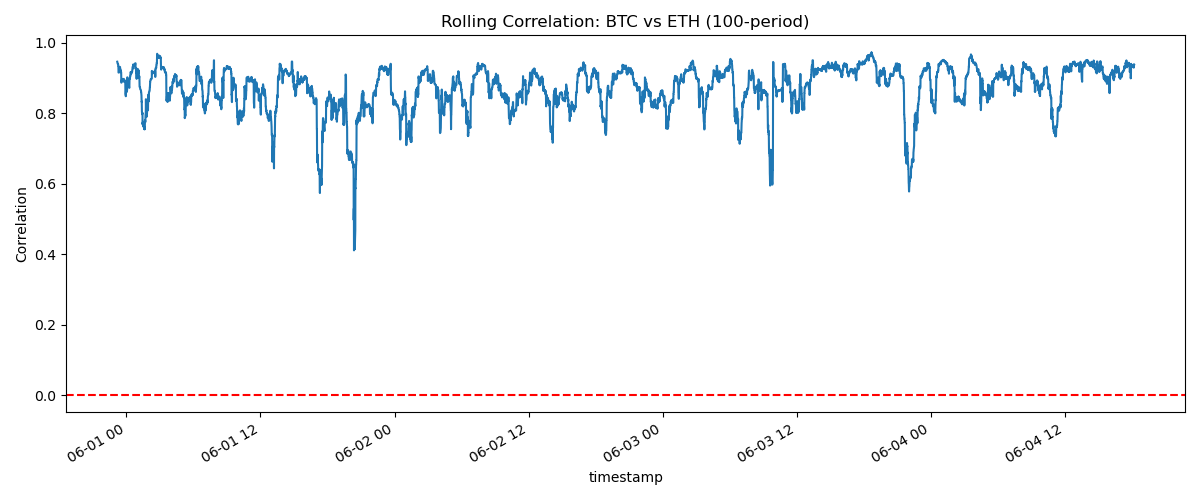
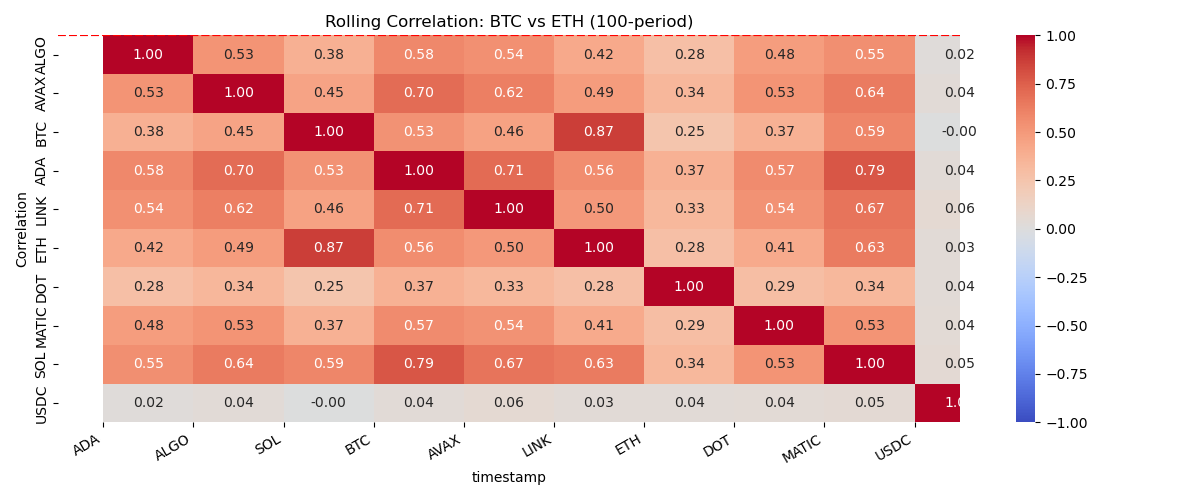
feat: add main.py to run all models in single command

diff --git a/models/sharpe.py b/models/sharpe.py
@@ -3,39 +3,32 @@ import pandas as pd
 import numpy as np
 import matplotlib.pyplot as plt
 
-df = load_prices()
-
-cutoff = pd.Timestamp('2026-05-31 22:21:00', tz='UTC')
-clean = df[df['timestamp'] > cutoff]
-
-pivot = clean.pivot_table(
-    index='timestamp',
-    columns='coin_id',
-    values='price_usd'
-)
-
-log_returns = np.log(pivot / pivot.shift(1))
-
-sharpe = log_returns.mean() / log_returns.std()
-
-ticker_map = {
-    'bitcoin': 'BTC', 'ethereum': 'ETH', 'solana': 'SOL',
-    'cardano': 'ADA', 'avalanche-2': 'AVAX', 'chainlink': 'LINK',
-    'polkadot': 'DOT', 'algorand': 'ALGO',
-    'polygon-ecosystem-token': 'MATIC', 'usd-coin': 'USDC',
-}
-sharpe.index = sharpe.index.map(ticker_map)
-
-sharpe.sort_values().plot(
-    kind='bar',
-    title='Sharpe Ratio by Coin',
-    figsize=(10, 5),
-    color='steelblue'
-)
-
-plt.axhline(y=0, color='red', linestyle='--')
-plt.xlabel('')
-plt.ylabel('Sharpe Ratio')
-plt.tight_layout()
-plt.savefig('sharpe_ratio.png')
-print("Chart saved.")
+def run(df):
+    cutoff = pd.Timestamp('2026-05-31 22:21:00', tz='UTC')
+    clean = df[df['timestamp'] > cutoff]
+    pivot = clean.pivot_table(
+        index='timestamp',
+        columns='coin_id',
+        values='price_usd'
+    )
+    log_returns = np.log(pivot / pivot.shift(1))
+    sharpe = log_returns.mean() / log_returns.std()
+    ticker_map = {
+        'bitcoin': 'BTC', 'ethereum': 'ETH', 'solana': 'SOL',
+        'cardano': 'ADA', 'avalanche-2': 'AVAX', 'chainlink': 'LINK',
+        'polkadot': 'DOT', 'algorand': 'ALGO',
+        'polygon-ecosystem-token': 'MATIC', 'usd-coin': 'USDC',
+    }
+    sharpe.index = sharpe.index.map(ticker_map)
+    sharpe.sort_values().plot(
+        kind='bar',
+        title='Sharpe Ratio by Coin',
+        figsize=(10, 5),
+        color='steelblue'
+    )
+    plt.axhline(y=0, color='red', linestyle='--')
+    plt.xlabel('')
+    plt.ylabel('Sharpe Ratio')
+    plt.tight_layout()
+    plt.savefig('sharpe_ratio.png')
+    return sharpe

diff --git a/models/volatility.py b/models/volatility.py
@@ -3,37 +3,19 @@ import pandas as pd
 import numpy as np
 import matplotlib.pyplot as plt
 
-df = load_prices()
-pivot = df.pivot_table(
-    index='timestamp', 
-    columns='coin_id', 
-    values='price_usd'
-)
-# today/yesterday, then log
-log_returns = np.log(pivot / pivot.shift(1))
-#std over 20 periods
-rolling_vol = log_returns.rolling(window=20).std()
-# plot bitcoin only, drop NaN rows
-rolling_vol['bitcoin'].dropna().plot(
-    title='Bitcoin Rolling Volatility (20-period)',
-    figsize=(12, 5)
-)
-plt.ylabel('Volatility (std of log returns)')
-plt.tight_layout()
-plt.savefig('bitcoin_volatility.png')
-print("Chart saved.")
-
-# filter only bitcoin rows
-btc = df[df['coin_id'] == 'bitcoin'].copy()
-
-# sort by time
-btc = btc.sort_values('timestamp')
-
-# time between each snapshot
-btc['time_diff'] = btc['timestamp'].diff()
-
-#summary statistics
-print(btc['time_diff'].describe())
-
-# shows gaps > 1 hour
-print(btc[btc['time_diff'] > pd.Timedelta(minutes=2)][['timestamp', 'time_diff']])
+def run(df):
+    pivot = df.pivot_table(
+        index='timestamp',
+        columns='coin_id',
+        values='price_usd'
+    )
+    log_returns = np.log(pivot / pivot.shift(1))
+    rolling_vol = log_returns.rolling(window=20).std()
+    rolling_vol['bitcoin'].dropna().plot(
+        title='Bitcoin Rolling Volatility (20-period)',
+        figsize=(12, 5)
+    )
+    plt.ylabel('Volatility (std of log returns)')
+    plt.tight_layout()
+    plt.savefig('bitcoin_volatility.png')
+    return rolling_vol

diff --git a/models/correlation.py b/models/correlation.py
@@ -4,28 +4,24 @@ import numpy as np
 import matplotlib.pyplot as plt
 import seaborn as sns
 
-df = load_prices()
-cutoff = pd.Timestamp('2026-05-31 22:21:00', tz='UTC')
-clean = df[df['timestamp'] > cutoff]
-
-pivot = clean.pivot_table(
-    index='timestamp',
-    columns='coin_id',
-    values='price_usd'
-)
-pivot.columns.name = None
-
-log_returns = np.log(pivot / pivot.shift(1))
-corr_matrix = log_returns.corr()
-
-corr_matrix.columns = ['ALGO', 'AVAX', 'BTC', 'ADA', 'LINK', 'ETH', 'DOT', 'MATIC', 'SOL', 'USDC']
-corr_matrix.index = ['ALGO', 'AVAX', 'BTC', 'ADA', 'LINK', 'ETH', 'DOT', 'MATIC', 'SOL', 'USDC']
-
-plt.figure(figsize=(10, 8))
-sns.heatmap(corr_matrix, annot=True, fmt='.2f', cmap='coolwarm', vmin=-1, vmax=1)
-plt.title('Crypto Correlation Matrix')
-plt.tight_layout()
-plt.savefig('correlation_matrix.png')
-
-print(corr_matrix)
-print('Chart saved.')
+def run(df):
+    cutoff = pd.Timestamp('2026-05-31 22:21:00', tz='UTC')
+    clean = df[df['timestamp'] > cutoff]
+    pivot = clean.pivot_table(
+        index='timestamp',
+        columns='coin_id',
+        values='price_usd'
+    )
+    pivot.columns.name = None
+    log_returns = np.log(pivot / pivot.shift(1))
+    corr_matrix = log_returns.corr()
+    corr_matrix.columns = ['ALGO', 'AVAX', 'BTC', 'ADA', 'LINK', 'ETH', 'DOT', 'MATIC', 'SOL', 'USDC']
+    corr_matrix.index = ['ALGO', 'AVAX', 'BTC', 'ADA', 'LINK', 'ETH', 'DOT', 'MATIC', 'SOL', 'USDC']
+    plt.figure(figsize=(10, 8))
+    sns.heatmap(corr_matrix, annot=True, fmt='.2f', cmap='coolwarm', vmin=-1, vmax=1)
+    plt.title('Crypto Correlation Matrix')
+    plt.tight_layout()
+    plt.savefig('correlation_matrix.png')
+    print(corr_matrix)
+    print('Chart saved.')
+    return corr_matrix

diff --git a/models/rolling_correlation.py b/models/rolling_correlation.py
@@ -3,27 +3,22 @@ import pandas as pd
 import numpy as np
 import matplotlib.pyplot as plt
 
-df = load_prices()
-
-cutoff = pd.Timestamp('2026-05-31 22:21:00', tz='UTC')
-clean = df[df['timestamp'] > cutoff]
-pivot = clean.pivot_table(
-    index='timestamp',
-    columns='coin_id',
-    values='price_usd'
-)
-
-log_returns = np.log(pivot / pivot.shift(1))
-
-rolling_corr = log_returns['bitcoin'].rolling(window=100).corr(log_returns['ethereum'])
-
-rolling_corr.dropna().plot(
-    title='Rolling Correlation: BTC vs ETH (100-period)',
-    figsize=(12, 5)
-)
-
-plt.axhline(y=0, color='red', linestyle='--')
-plt.ylabel('Correlation')
-plt.tight_layout()
-plt.savefig('rolling_correlation.png')
-print("Chart saved.")
+def run(df):
+    cutoff = pd.Timestamp('2026-05-31 22:21:00', tz='UTC')
+    clean = df[df['timestamp'] > cutoff]
+    pivot = clean.pivot_table(
+        index='timestamp',
+        columns='coin_id',
+        values='price_usd'
+    )
+    log_returns = np.log(pivot / pivot.shift(1))
+    rolling_corr = log_returns['bitcoin'].rolling(window=100).corr(log_returns['ethereum'])
+    rolling_corr.dropna().plot(
+        title='Rolling Correlation: BTC vs ETH (100-period)',
+        figsize=(12, 5)
+    )
+    plt.axhline(y=0, color='red', linestyle='--')
+    plt.ylabel('Correlation')
+    plt.tight_layout()
+    plt.savefig('rolling_correlation.png')
+    return rolling_corr

diff --git a/models/var.py b/models/var.py
@@ -4,19 +4,15 @@ import numpy as np
 import matplotlib.pyplot as plt
 import math
 
-df = load_prices()
 
-cutoff = pd.Timestamp('2026-05-31 22:21:00', tz='UTC')
-clean = df[df['timestamp'] > cutoff]
-
-pivot = clean.pivot_table(
-    index='timestamp',
-    columns='coin_id',
-    values='price_usd'
-)
-log_returns = np.log(pivot / pivot.shift(1))
-
-var_95 = log_returns.quantile(0.05)*math.sqrt(2880)
-var_95_daily = var_95 * math.sqrt(2880)
-
-print(var_95.sort_values())
+def run(df):
+    cutoff = pd.Timestamp('2026-05-31 22:21:00', tz='UTC')
+    clean = df[df['timestamp'] > cutoff]
+    pivot = clean.pivot_table(
+        index='timestamp',
+        columns='coin_id',
+        values='price_usd'
+    )
+    log_returns = np.log(pivot / pivot.shift(1))
+    var_95 = log_returns.quantile(0.05)*math.sqrt(2880)
+    return var_95

diff --git a/main.py b/main.py
@@ -1,0 +1,21 @@
+from load_data import load_prices
+from models import volatility, correlation, var, sharpe, rolling_correlation
+
+df = load_prices()
+
+print('Ronning volatility model...')
+volatility.run(df)
+
+print('Running correlation model...')
+correlation.run(df)
+
+print("Running VaR model...")
+var.run(df)
+
+print("Running Sharpe ratio model...")
+sharpe.run(df)
+
+print("Running rolling correlation model...")
+rolling_correlation.run(df)
+
+print("All models complete. Charts saved.")

diff --git a/.vscode/correlation.py b/.vscode/correlation.py
@@ -8,27 +8,24 @@ df = load_prices()
 cutoff = pd.Timestamp('2026-05-31 22:21:00', tz='UTC')
 clean = df[df['timestamp'] > cutoff]
 
-# print('Total rows:', len(df))
-# print('Clean rows:', len(clean))
-# print('Dropped rows:', len(df) - len(clean))
-
 pivot = clean.pivot_table(
     index='timestamp',
     columns='coin_id',
     values='price_usd'
 )
+pivot.columns.name = None
 
 log_returns = np.log(pivot / pivot.shift(1))
 corr_matrix = log_returns.corr()
 
+corr_matrix.columns = ['ALGO', 'AVAX', 'BTC', 'ADA', 'LINK', 'ETH', 'DOT', 'MATIC', 'SOL', 'USDC']
+corr_matrix.index = ['ALGO', 'AVAX', 'BTC', 'ADA', 'LINK', 'ETH', 'DOT', 'MATIC', 'SOL', 'USDC']
+
 plt.figure(figsize=(10, 8))
-sns.heatmap(corr_matrix, annot=True, fmt='.2f', cmap='coolwarm')
+sns.heatmap(corr_matrix, annot=True, fmt='.2f', cmap='coolwarm', vmin=-1, vmax=1)
 plt.title('Crypto Correlation Matrix')
 plt.tight_layout()
 plt.savefig('correlation_matrix.png')
 
-log_returns['bitcoin'].quantile(0.05)
-
 print(corr_matrix)
 print('Chart saved.')
-